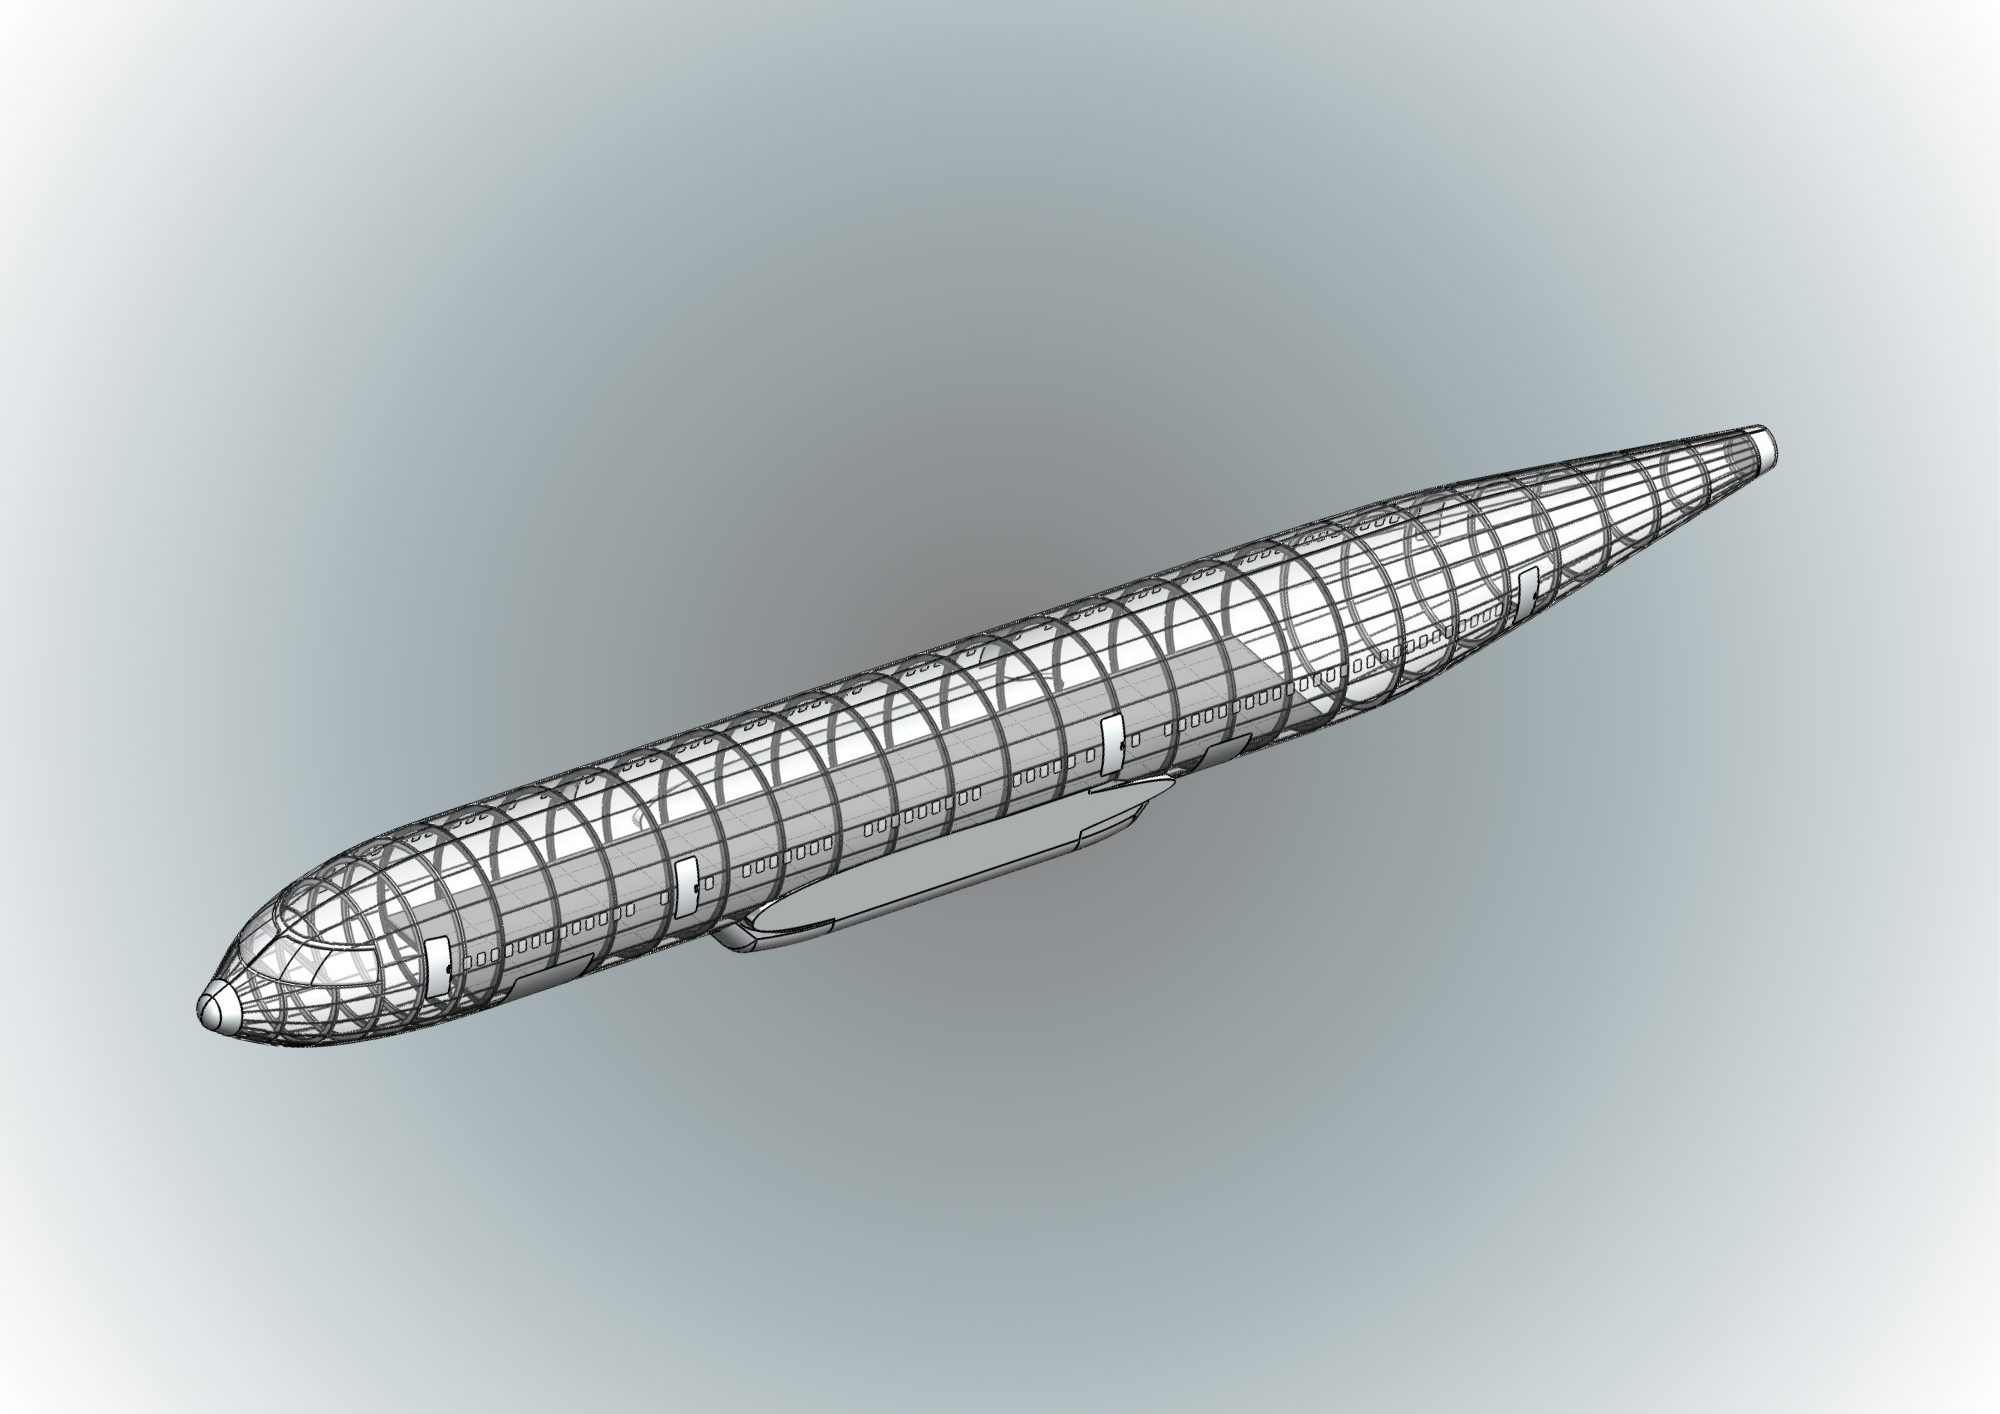
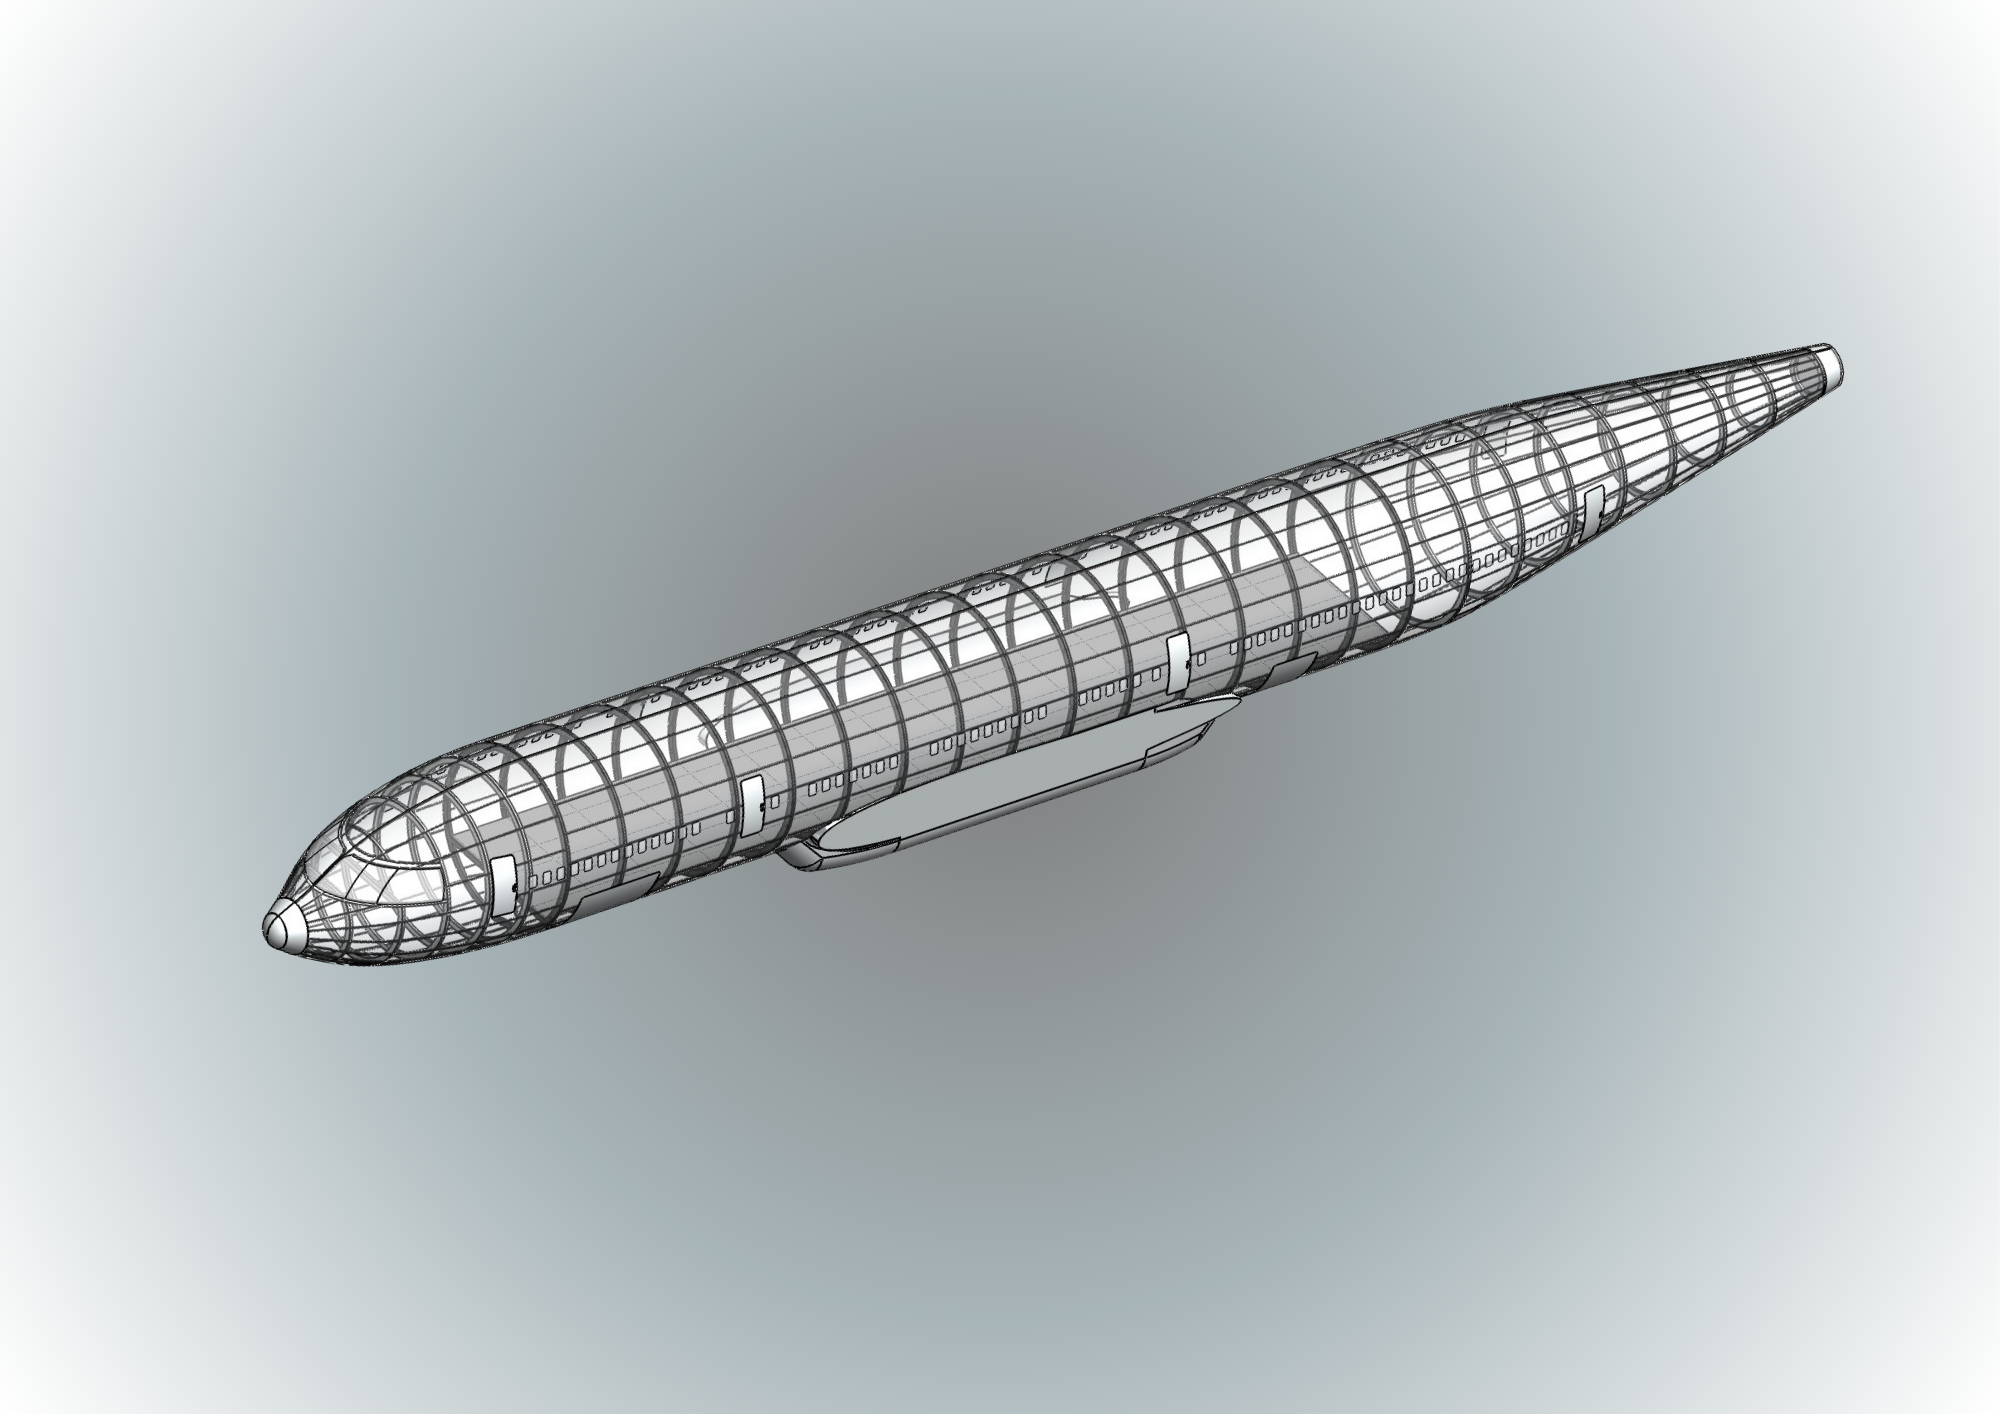
Added the photos for MAYARI gallery and fixed some texts

Changed region(s): [[0.093, 0.2489, 0.93, 0.7468]]

diff --git a/project-mayari-gallery.html b/project-mayari-gallery.html
@@ -1,0 +1,271 @@
+<!DOCTYPE html>
+<html lang="en">
+<head>
+<meta charset="UTF-8">
+<meta name="viewport" content="width=device-width, initial-scale=1.0">
+<title>Project MAYARI — Gallery | Jerome Pangilinan</title>
+<link rel="icon" type="image/png" href="Web Icon.png">
+<link rel="preconnect" href="https://fonts.googleapis.com">
+<link rel="preconnect" href="https://fonts.gstatic.com" crossorigin>
+<link href="https://fonts.googleapis.com/css2?family=Space+Grotesk:wght@300;400;500;600;700&family=Inter:wght@300;400;500;600&family=JetBrains+Mono:wght@400;500&display=swap" rel="stylesheet">
+<style>
+  *, *::before, *::after { box-sizing: border-box; margin: 0; padding: 0; }
+  :root {
+    --navy:       #060F1E;
+    --dark-blue:  #0A2444;
+    --blue:       #1D4ED8;
+    --sky:        #60A5FA;
+    --pale:       #EFF6FF;
+    --white:      #FFFFFF;
+    --muted:      #94A3B8;
+    --border:     rgba(96,165,250,0.15);
+
+    --font-display: 'Space Grotesk', sans-serif;
+    --font-body:    'Inter', sans-serif;
+    --font-mono:    'JetBrains Mono', monospace;
+  }
+
+  html { scroll-behavior: smooth; }
+  body { font-family: var(--font-body); background: var(--white); color: var(--navy); line-height: 1.6; }
+
+  nav {
+    position: sticky; top: 0; z-index: 100;
+    display: flex; align-items: center; justify-content: space-between;
+    padding: 1.2rem 4rem;
+    background: rgba(6,15,30,0.92);
+    backdrop-filter: blur(12px);
+    border-bottom: 1px solid var(--border);
+  }
+  .nav-logo { font-family: var(--font-display); font-weight: 700; font-size: 1.1rem; color: var(--white); text-decoration: none; }
+  .nav-logo span { color: var(--sky); }
+  .back-link {
+    font-family: var(--font-mono); font-size: 0.78rem; color: var(--muted);
+    text-decoration: none; letter-spacing: 0.06em; text-transform: uppercase;
+    display: inline-flex; align-items: center; gap: 0.5rem; transition: color 0.2s;
+  }
+  .back-link:hover { color: var(--sky); }
+  .back-link svg { width: 14px; height: 14px; }
+
+  header.gallery-hero { background: var(--navy); padding: 5rem 4rem 4rem; }
+  .max-container { max-width: 1100px; margin: 0 auto; }
+  .gallery-eyebrow {
+    font-family: var(--font-mono); font-size: 0.75rem; color: var(--sky);
+    letter-spacing: 0.15em; text-transform: uppercase; margin-bottom: 1rem;
+  }
+  .gallery-title { font-family: var(--font-display); font-size: clamp(2rem, 4vw, 3rem); font-weight: 700; color: var(--white); letter-spacing: -0.02em; margin-bottom: 1rem; }
+  .gallery-title span { color: var(--sky); }
+  .gallery-desc { font-size: 1rem; color: rgba(148,163,184,0.9); max-width: 640px; }
+
+  main { padding: 4rem; background: var(--pale); min-height: 50vh; }
+
+  .gallery-grid {
+    display: grid;
+    grid-template-columns: repeat(auto-fill, minmax(280px, 1fr));
+    gap: 1.5rem;
+    max-width: 1100px;
+    margin: 0 auto;
+  }
+
+  .gallery-item {
+    background: var(--white);
+    border: 1px dashed #BFDBFE;
+    border-radius: 12px;
+    display: flex;
+    align-items: center;
+    justify-content: center;
+    text-align: center;
+    padding: 1.5rem;
+    min-height: 250px;
+  }
+
+  .gallery-item p {
+    font-family: var(--font-mono);
+    font-size: 0.72rem;
+    color: var(--muted);
+    letter-spacing: 0.04em;
+  }
+
+  /* To add a real image, replace a .gallery-item div with:
+     <div class="gallery-item filled"><img src="path/to/image.jpg" alt="..."></div>
+  */
+  .gallery-item.filled { border-style: solid; padding: 0; overflow: hidden; cursor: pointer; transition: transform 0.2s; display: flex; flex-direction: column; }
+  .gallery-item.filled:hover { transform: scale(1.02); }
+  .gallery-item.filled img { width: 100%; height: 100%; object-fit: cover; flex: 1; }
+
+  .image-label {
+    padding: 0.6rem 0.8rem;
+    font-family: var(--font-mono);
+    font-size: 0.68rem;
+    color: #94A3B8;
+    letter-spacing: 0.03em;
+    text-align: center;
+    background: #F8FAFC;
+    border-top: 1px solid #E2E8F0;
+  }
+
+  /* Lightbox styles */
+  .lightbox {
+    display: none;
+    position: fixed;
+    top: 0; left: 0; right: 0; bottom: 0;
+    background: rgba(6,15,30,0.95);
+    z-index: 1000;
+    align-items: center;
+    justify-content: center;
+    padding: 2rem;
+  }
+
+  .lightbox.active { display: flex; }
+
+  .lightbox-content {
+    max-width: 90vw;
+    max-height: 90vh;
+    object-fit: contain;
+    border-radius: 8px;
+    box-shadow: 0 20px 60px rgba(0,0,0,0.5);
+  }
+
+  .lightbox-close {
+    position: absolute;
+    top: 1.5rem;
+    right: 2rem;
+    background: rgba(255,255,255,0.1);
+    border: 1px solid rgba(255,255,255,0.2);
+    color: var(--white);
+    width: 40px;
+    height: 40px;
+    border-radius: 50%;
+    display: flex;
+    align-items: center;
+    justify-content: center;
+    cursor: pointer;
+    font-size: 1.5rem;
+    transition: background 0.2s;
+  }
+
+  .lightbox-close:hover { background: rgba(255,255,255,0.2); }
+
+  footer { padding: 2.5rem 4rem; text-align: center; }
+  .footer-copy { font-family: var(--font-mono); font-size: 0.75rem; color: var(--muted); }
+
+  /* ── REVEAL ANIMATIONS ────────────────────────────────────── */
+  .reveal {
+    opacity: 0;
+    transform: translateY(24px);
+    transition: opacity 0.6s ease, transform 0.6s ease;
+  }
+
+  .reveal.visible {
+    opacity: 1;
+    transform: translateY(0);
+  }
+
+  .gallery-item:nth-child(1) { transition-delay: 0s; }
+  .gallery-item:nth-child(2) { transition-delay: 0.08s; }
+  .gallery-item:nth-child(3) { transition-delay: 0.16s; }
+  .gallery-item:nth-child(4) { transition-delay: 0.24s; }
+  .gallery-item:nth-child(5) { transition-delay: 0.32s; }
+
+  @media (max-width: 768px) {
+    nav, header.gallery-hero, main, footer { padding-left: 1.5rem; padding-right: 1.5rem; }
+  }
+</style>
+</head>
+<body>
+
+<nav>
+  <a href="index.html#projects" class="back-link">
+    <svg viewBox="0 0 24 24" fill="none" stroke="currentColor" stroke-width="2.5"><path d="M19 12H5M12 19l-7-7 7-7"/></svg>
+    Back to Projects
+  </a>
+  <a href="index.html" class="nav-logo">JP<span>.</span></a>
+</nav>
+
+<header class="gallery-hero">
+  <div class="max-container">
+    <p class="gallery-eyebrow">Project Gallery</p>
+    <h1 class="gallery-title">Project <span>MAYARI</span></h1>
+    <p class="gallery-desc">A KNSB-propelled rocket developed under the Rocket Design course (Jan–May 2026). Focus on the Ejection & Recovery System — electronics, parachute sizing, and the bulkhead structure separating the electronics and parachute bays.</p>
+  </div>
+</header>
+
+<main>
+  <div class="gallery-grid">
+    <div class="gallery-item filled reveal">
+      <img src="RD1.jpg" alt="Project MAYARI — Ejection and Recovery System">
+      <div class="image-label">RD1.jpg</div>
+    </div>
+    <div class="gallery-item filled reveal">
+      <img src="RD2.jpg" alt="Project MAYARI — Ejection and Recovery System">
+      <div class="image-label">RD2.jpg</div>
+    </div>
+    <div class="gallery-item filled reveal">
+      <img src="RD3.jpg" alt="Project MAYARI — Ejection and Recovery System">
+      <div class="image-label">RD3.jpg</div>
+    </div>
+    <div class="gallery-item filled reveal">
+      <img src="RD4.jpg" alt="Project MAYARI — Ejection and Recovery System">
+      <div class="image-label">RD4.jpg</div>
+    </div>
+  </div>
+</main>
+
+<footer>
+  <p class="footer-copy">&copy; 2026 Jerome Pangilinan — Aerospace Engineer</p>
+</footer>
+
+<!-- Lightbox -->
+<div class="lightbox" id="lightbox">
+  <button class="lightbox-close" onclick="closeLightbox()">&times;</button>
+  <img class="lightbox-content" id="lightbox-img" src="" alt="">
+</div>
+
+<script>
+  // Lightbox functionality
+  const lightbox = document.getElementById('lightbox');
+  const lightboxImg = document.getElementById('lightbox-img');
+  const galleryImages = document.querySelectorAll('.gallery-item.filled img');
+
+  galleryImages.forEach(img => {
+    img.addEventListener('click', (e) => {
+      e.stopPropagation();
+      lightboxImg.src = img.src;
+      lightboxImg.alt = img.alt;
+      lightbox.classList.add('active');
+      document.body.style.overflow = 'hidden';
+    });
+  });
+
+  function closeLightbox() {
+    lightbox.classList.remove('active');
+    document.body.style.overflow = '';
+  }
+
+  lightbox.addEventListener('click', (e) => {
+    if (e.target === lightbox) {
+      closeLightbox();
+    }
+  });
+
+  document.addEventListener('keydown', (e) => {
+    if (e.key === 'Escape' && lightbox.classList.contains('active')) {
+      closeLightbox();
+    }
+  });
+
+  // ── SCROLL REVEAL ────────────────────────────────────────────
+  const revealEls = document.querySelectorAll('.reveal');
+  const revealObserver = new IntersectionObserver((entries) => {
+    entries.forEach(entry => {
+      if (entry.isIntersecting) {
+        entry.target.classList.add('visible');
+        revealObserver.unobserve(entry.target);
+      }
+    });
+  }, { threshold: 0.12, rootMargin: '0px 0px -40px 0px' });
+
+  revealEls.forEach(el => revealObserver.observe(el));
+</script>
+
+</body>
+</html>

diff --git a/index.html b/index.html
@@ -1284,11 +1284,11 @@ button.contact-btn:focus-visible {
       </div>
 
       <div class="project-card reveal reveal-delay-2">
-              <div class="card-image"></div>
+              <div class="card-image" style="background-image: url('MAYARI Project Card Preview.png');"></div>
               <div class="card-body">
                 <p class="card-category">Rocket Design · Recovery Systems</p>
                 <h3 class="card-title">Project MAYARI — Ejection & Recovery System</h3>
-                <p class="card-desc">Design and development of the Ejection & Recovery System for a KNSB-propelled rocket, covering recovery electronics, parachute sizing calculations, and component integration. Also contributed to the broader rocket layout and planning process, and idealized the bulkhead design separating the motor, electronics, and parachute bays.</p>
+                <p class="card-desc">Design and development of the Ejection & Recovery System for a KNSB-propelled rocket, covering recovery electronics, contributing on parachute sizing calculations, and component integration. Also took part to the broader rocket layout and planning process, and idealized the bulkhead design separating the electronics and parachute bays.</p>
                 <div class="card-tags">
                   <span class="card-tag">KNSB Propulsion</span>
                   <span class="card-tag">Recovery Systems</span>
@@ -1304,7 +1304,7 @@ button.contact-btn:focus-visible {
       <div class="project-card reveal reveal-delay-1">
         <div class="card-image" style="background-image: url('777 Project Card Preview.png');"></div>
         <div class="card-body">
-          <p class="card-category">Aerospace Design</p>
+          <p class="card-category">Aircraft Design</p>
           <h3 class="card-title">Boeing 777 Fuselage Design</h3>
           <p class="card-desc">A CAD and FEA project focused on the Boeing 777-200, reconstructed using real-world aircraft dimensions and evaluated under tangential and longitudinal loading conditions. I was responsible for the fuselage 3D model, SolidWorks Simulation analysis, and documentation of the resulting structural behavior.</p>
           <div class="card-tags">
